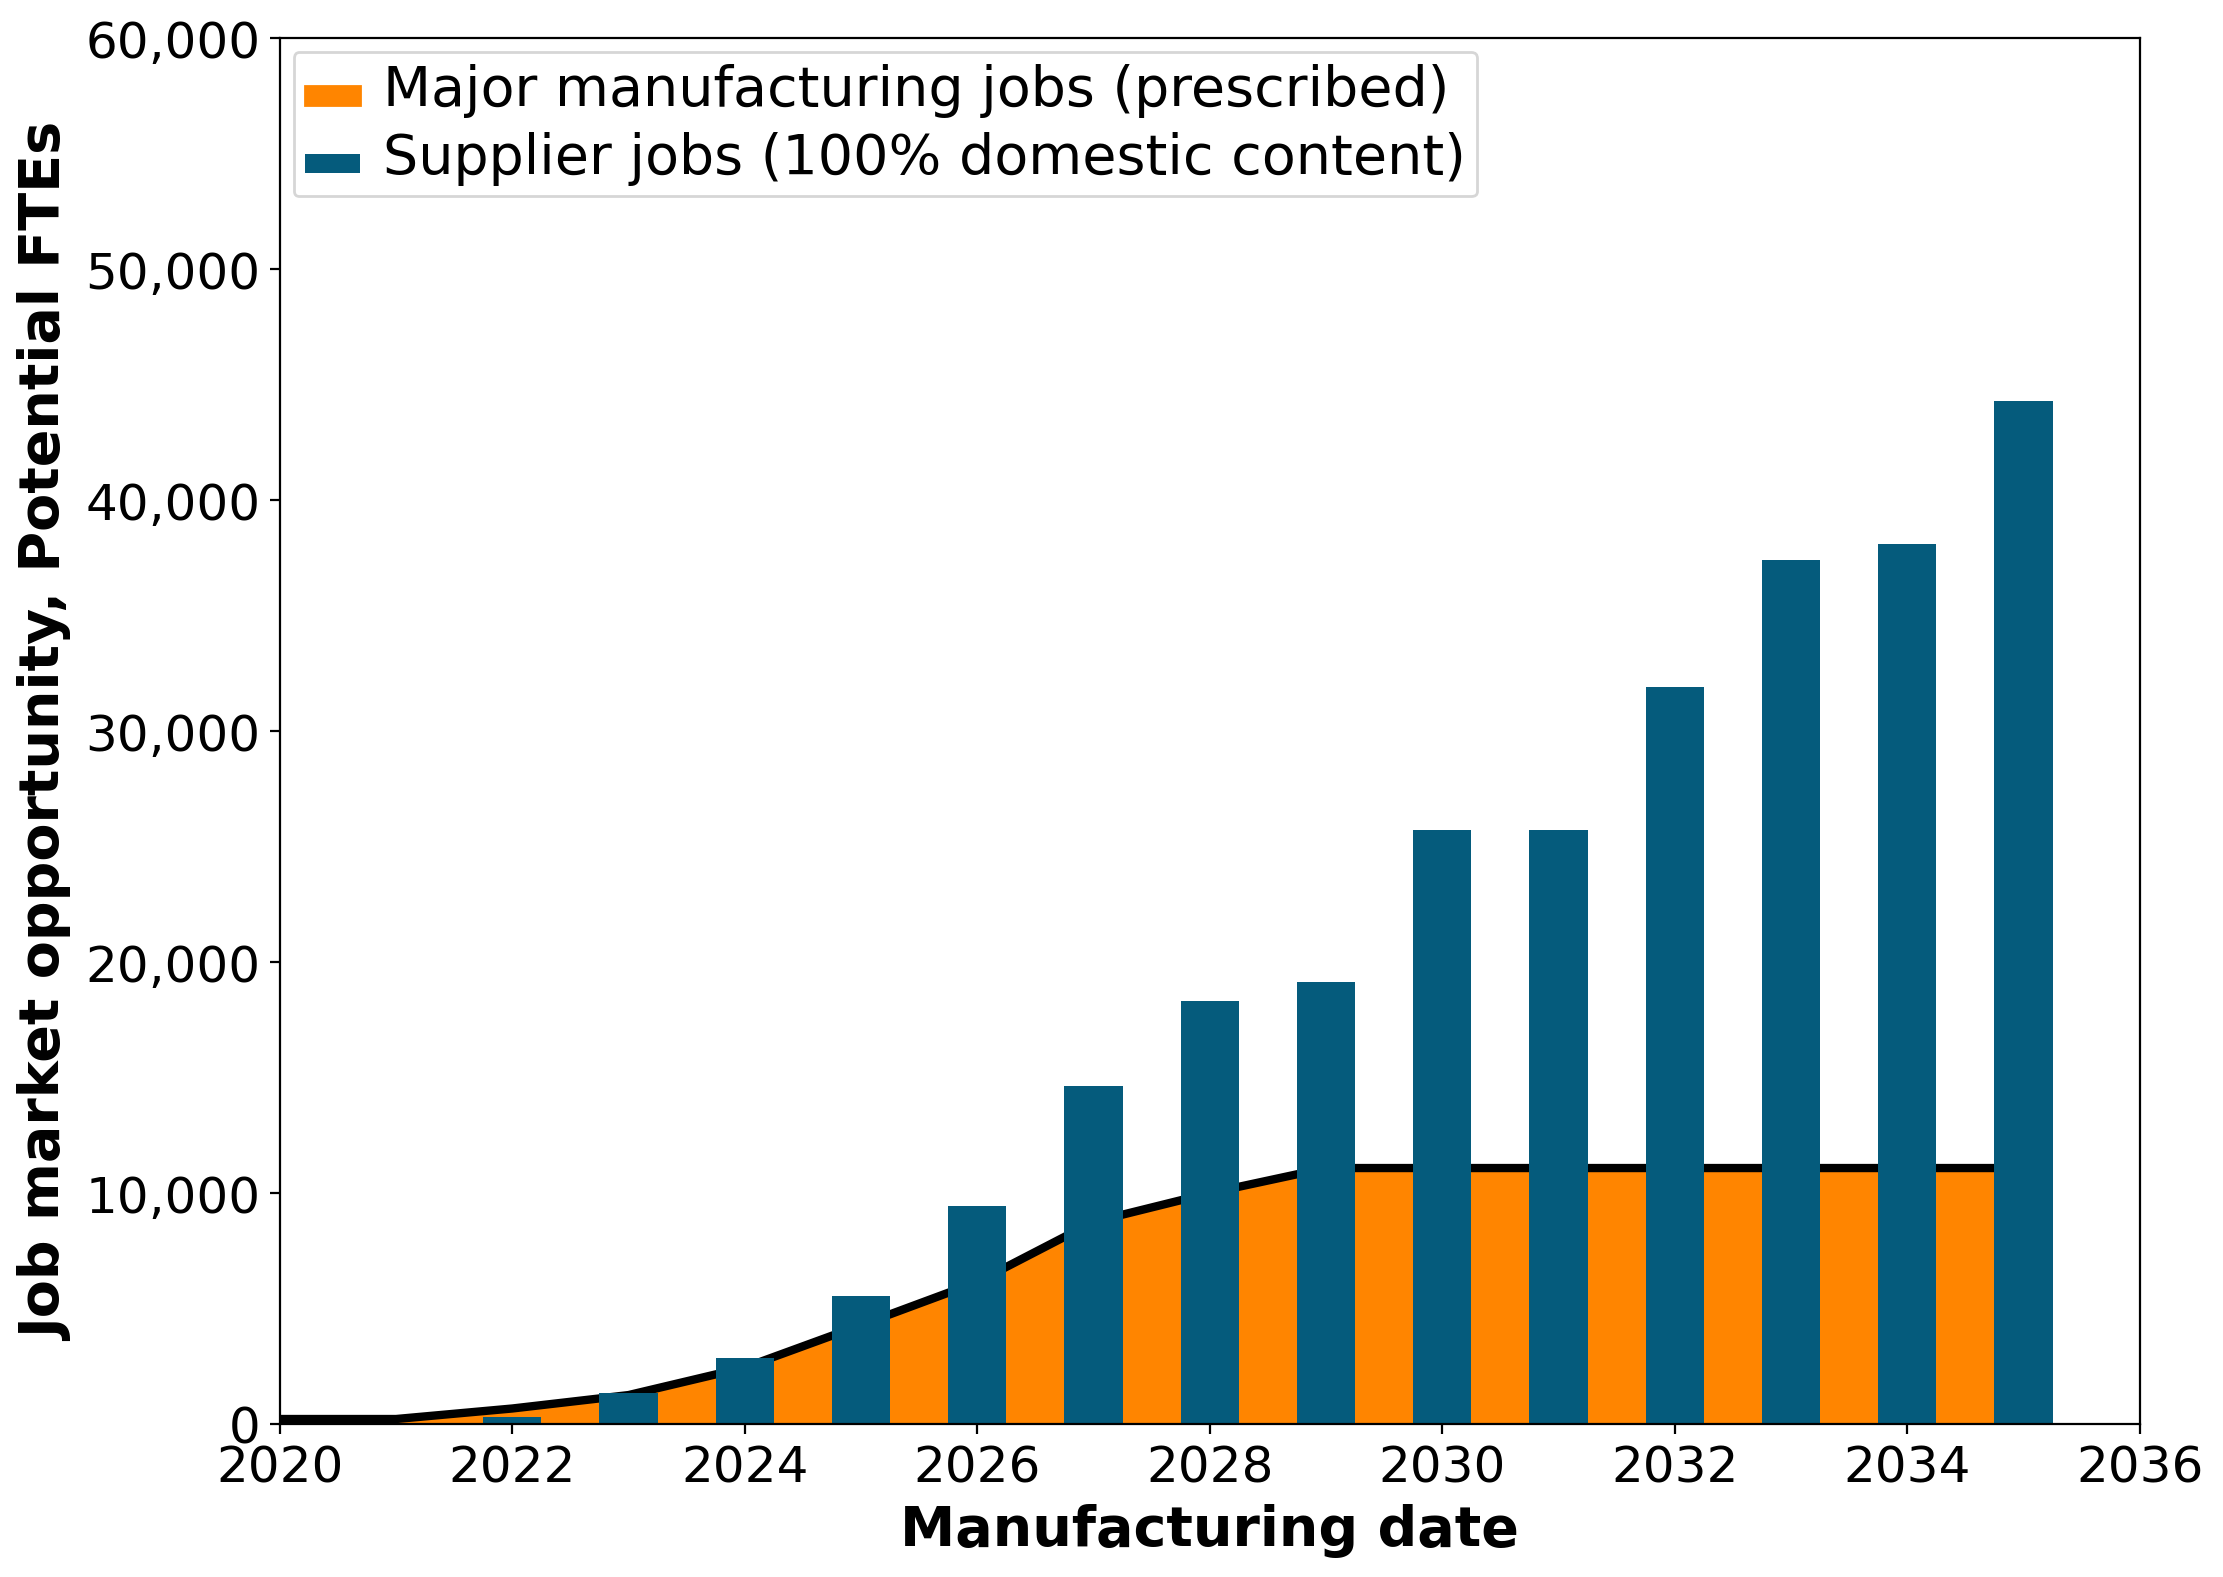
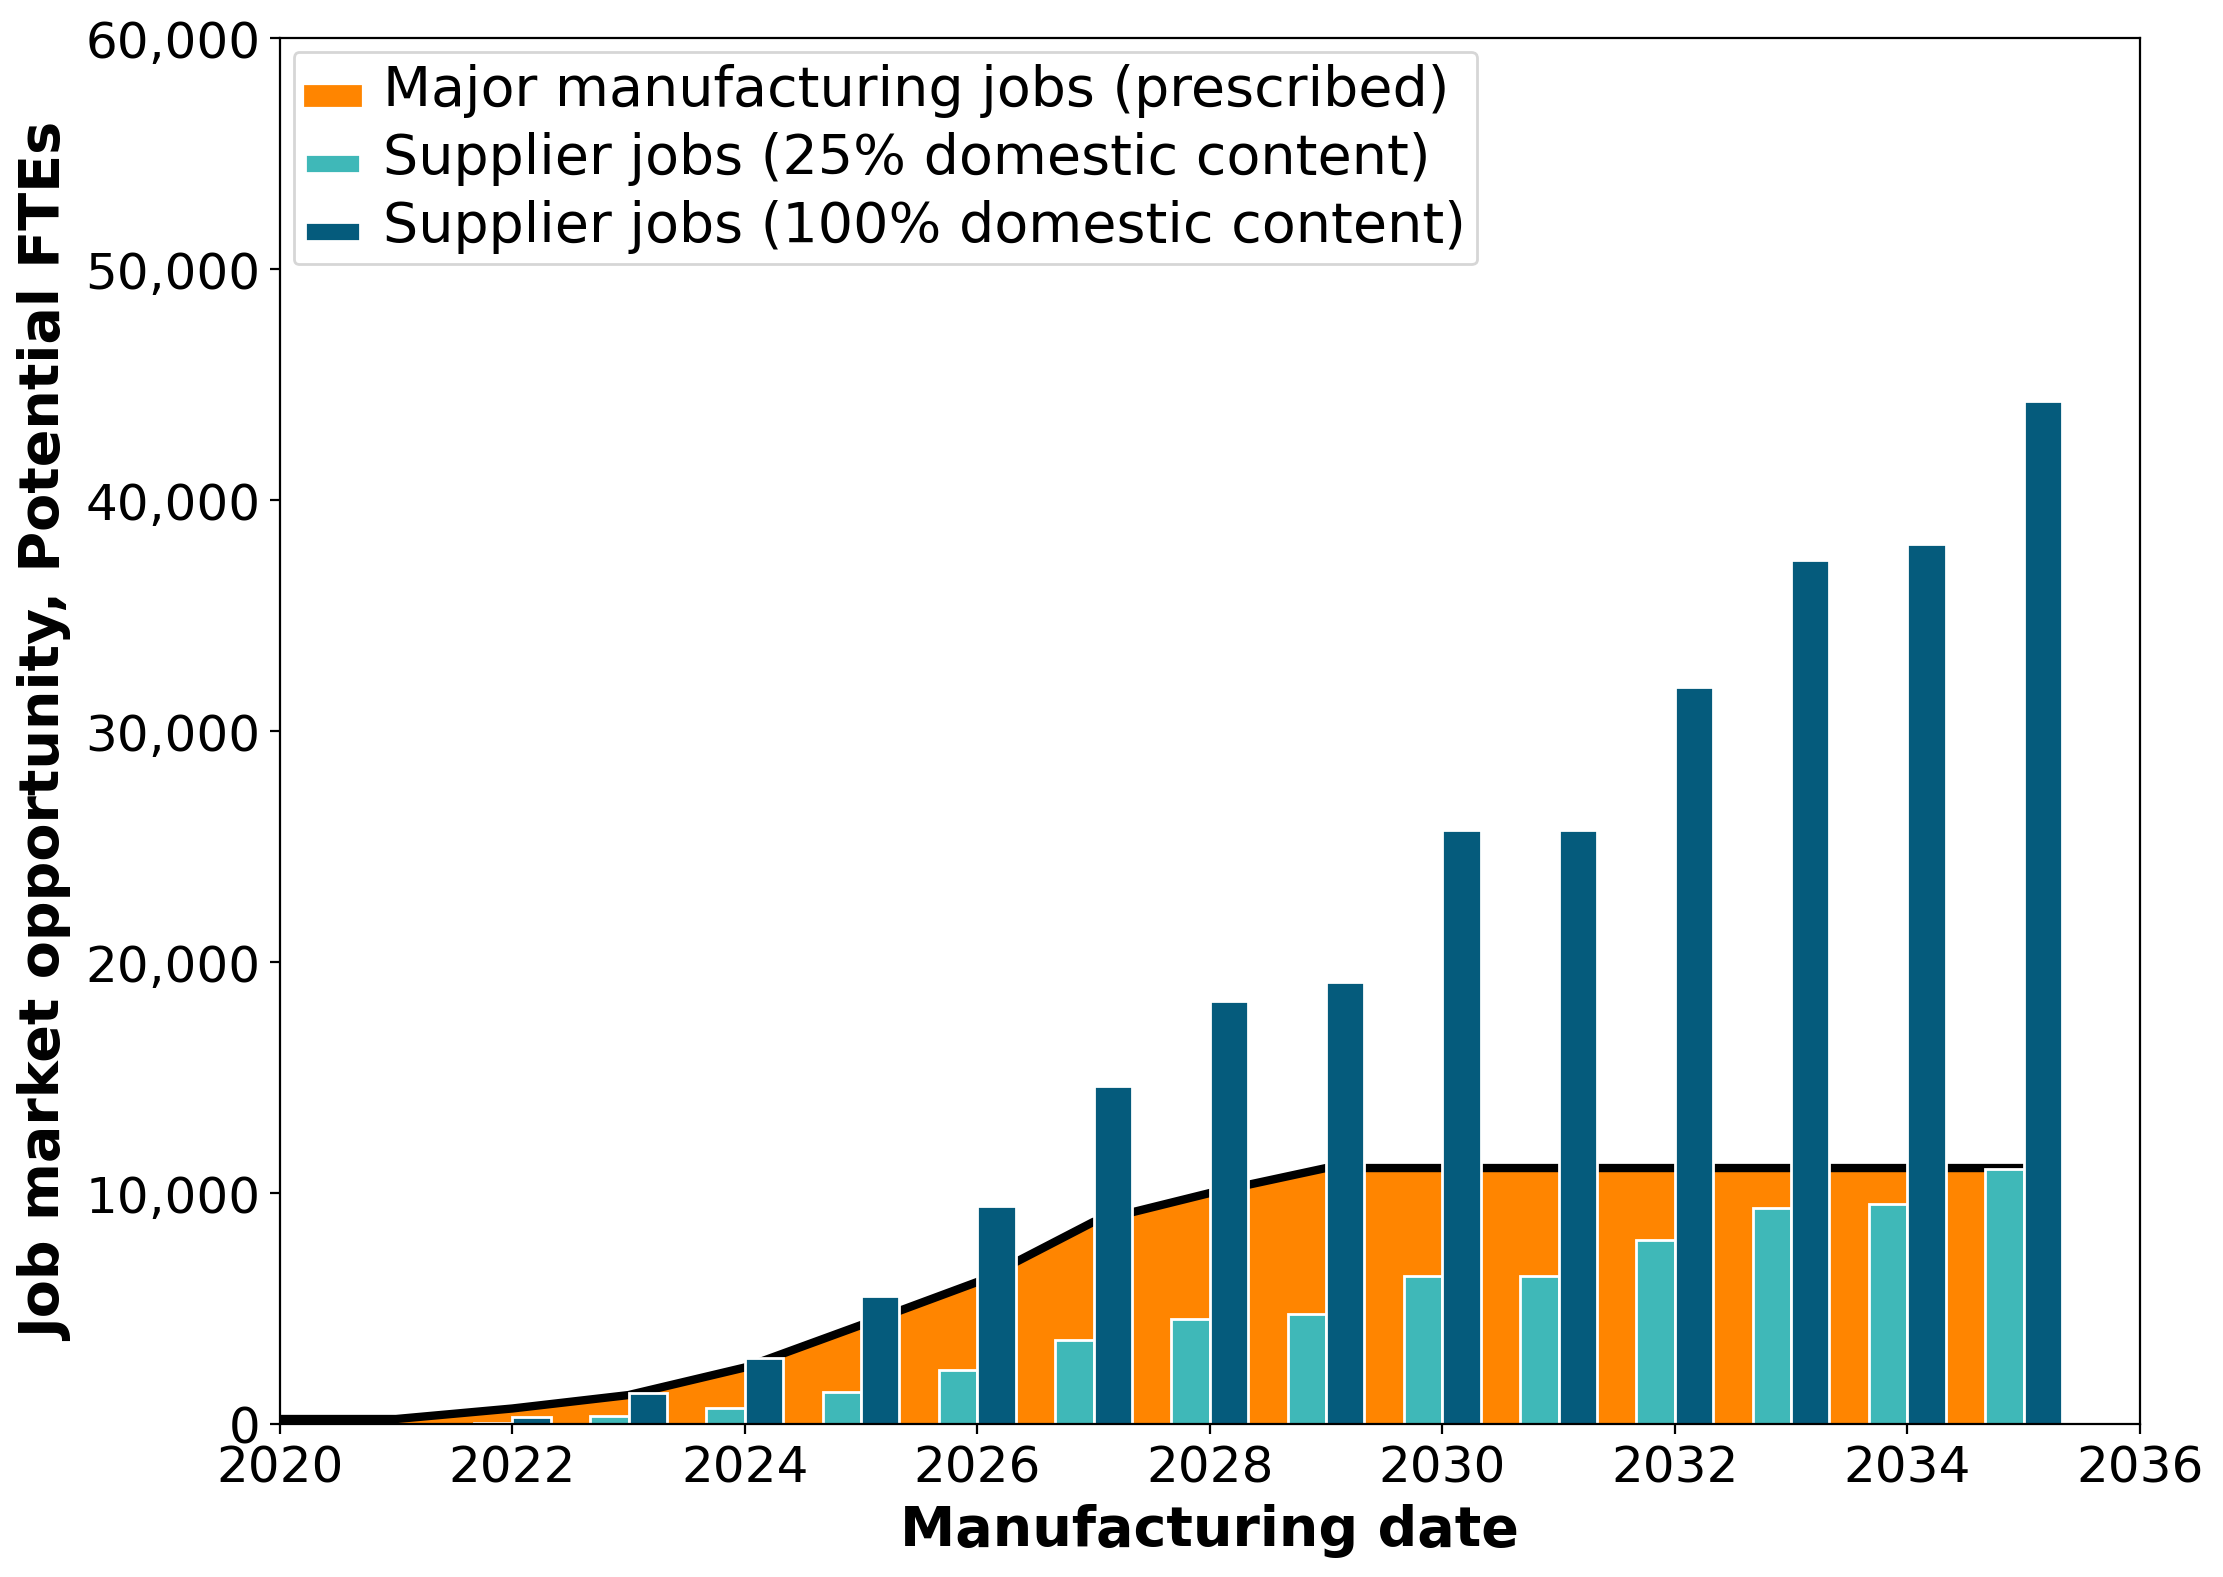
Added alternate workforce_rampup version

Changed region(s): [[0.2483, 0.2486, 0.9312, 0.9011], [0.1242, 0.0621, 0.6829, 0.1554]]

diff --git a/additional_plots.py b/additional_plots.py
@@ -1,6 +1,6 @@
 import pandas as pd
 import numpy as np
-from plot_routines import stacked_bar_2ser, simple_bar, pie_plot, area_bar_chart, plot_cumulative_jobs, plot_overlap_bar, plot_multi_line, plot_port_vessel_gantt
+from plot_routines import stacked_bar_2ser, simple_bar, pie_plot, area_bar_chart, plot_multi_bar, plot_cumulative_jobs, plot_overlap_bar, plot_multi_line, plot_port_vessel_gantt
 from helpers import color_list
 
 
@@ -61,14 +61,15 @@ if __name__ == '__main__':
                 indirect_100 = _df.loc['Supplier jobs (100% domestic content)',:].values
                 indirect_25 = _df.loc['Supplier jobs (25% domestic content)',:].values
                 label = ['Major manufacturing jobs (prescribed)',
-                        'Supplier jobs (100% domestic content)',
-                        'Supplier jobs (25% domestic content)']
+                        'Supplier jobs (25% domestic content)',
+                        'Supplier jobs (100% domestic content)']
 
-                kwargs = {'bar_width': 0.5,
+                kwargs = {'bar_width': 0.33,
                             'zorder1': 0,
                             'zorder2': 1,
                             'color1': color_list[label[0]],
                             'color2': color_list[label[1]],
+                            'color3': color_list[label[2]],
                             'ylim': [0, 60000],
                             'ylabel': 'Job market opportunity, Potential FTEs',
                             'xlabel': 'Manufacturing date'
@@ -79,7 +80,14 @@ if __name__ == '__main__':
                     fname = 'results/Accelerated/workforce_rampup'
                 elif "bottom" in fig:
                     fname = 'results/Conservative/workforce_rampup'
-                area_bar_chart(years, direct, indirect_100, label, kwargs, fname)
+                area_bar_chart(years, direct, indirect_25, indirect_100, label, kwargs, fname)
+                # Alternate plot
+                kwargs['bar_width'] = 0.25
+                if "top" in fig:
+                    fname_alt = 'results/Accelerated/workforce_rampup_alt'
+                elif "bottom" in fig:
+                    fname_alt = 'results/Conservative/workforce_rampup_alt'
+                plot_multi_bar(years, direct, indirect_25, indirect_100, label, kwargs, fname_alt)
             elif "Figure 20" in fig:
                 states = _df.index.values
 

diff --git a/plot_routines.py b/plot_routines.py
@@ -514,7 +514,7 @@ def pie_plot(y, c, n, fname=None):
         mysave(fig, fname)
         plt.close()
 
-def area_bar_chart(x, y1, y2, l, kwargs, fname=None):
+def area_bar_chart(x, y1, y2, y3, l, kwargs, fname=None):
     fig, ax = initFigAxis()
 
     # Area plot
@@ -523,8 +523,27 @@ def area_bar_chart(x, y1, y2, l, kwargs, fname=None):
     ax.plot(x,y1, 'k', zorder=kwargs['zorder1'])
 
     # Bar plot
-    ax.bar(x, y2, width=kwargs['bar_width'], color=kwargs['color2'], label=l[1], zorder=kwargs['zorder2'])
+    ax.bar(x, y2, width=-kwargs['bar_width'], align='edge', color=kwargs['color2'], label=l[1], zorder=kwargs['zorder2'], edgecolor='w')
+    ax.bar(x, y3, width=kwargs['bar_width'], align='edge', color=kwargs['color3'], label=l[2], zorder=kwargs['zorder2'], edgecolor='w')
+    ax.set_xlabel(kwargs['xlabel'])
+    ax.set_ylabel(kwargs['ylabel'])
+    ax.set_xlim(x[0], x[-1]+1)
+    ax.set_ylim(kwargs['ylim'])
+    ax.legend(loc='upper left')
+    ax.get_yaxis().set_major_formatter(
+        mpl.ticker.FuncFormatter(lambda x, p: format(int(x), ',')))
 
+    if fname:
+        myformat(ax)
+        mysave(fig, fname)
+        plt.close()
+
+def plot_multi_bar(x, y1, y2, y3, l, kwargs, fname=None):
+    fig, ax = initFigAxis()
+
+    ax.bar(x-kwargs['bar_width'], y1, width=kwargs['bar_width'], color=kwargs['color1'], label=l[0], zorder=kwargs['zorder2'], edgecolor='w')
+    ax.bar(x, y2, width=kwargs['bar_width'], color=kwargs['color2'], label=l[1], zorder=kwargs['zorder2'], edgecolor='w')
+    ax.bar(x+kwargs['bar_width'], y3, width=kwargs['bar_width'], color=kwargs['color3'], label=l[2], zorder=kwargs['zorder2'], edgecolor='w')
     ax.set_xlabel(kwargs['xlabel'])
     ax.set_ylabel(kwargs['ylabel'])
     ax.set_xlim(x[0], x[-1]+1)

diff --git a/helpers.py b/helpers.py
@@ -107,7 +107,7 @@ color_list = {
     'Suppliers (Indirect jobs, 100% domestic content)': '#055B7C',
     'Major manufacturing jobs (prescribed)': '#FF8500',
     'Supplier jobs (100% domestic content)': '#055B7C',
-    'Supplier jobs (25% domestic content)': '#055B7C',
+    'Supplier jobs (25% domestic content)': '#3FB8B8',
     'Indirect jobs': '#055B7C',
     'Existing similar industries': '#933C06',
     'Proximity to scenario facilities': '#D1D5D8',
